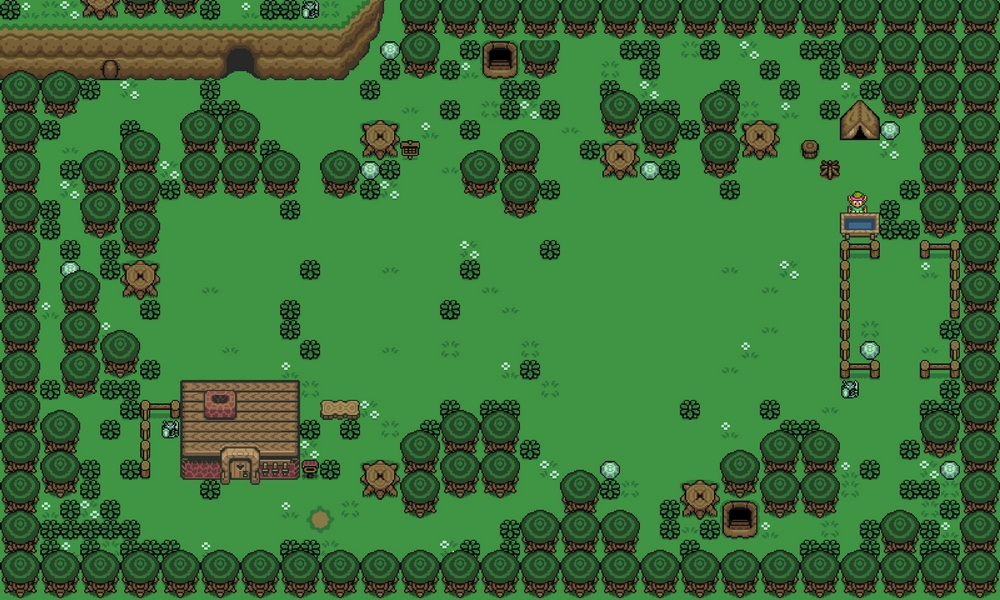
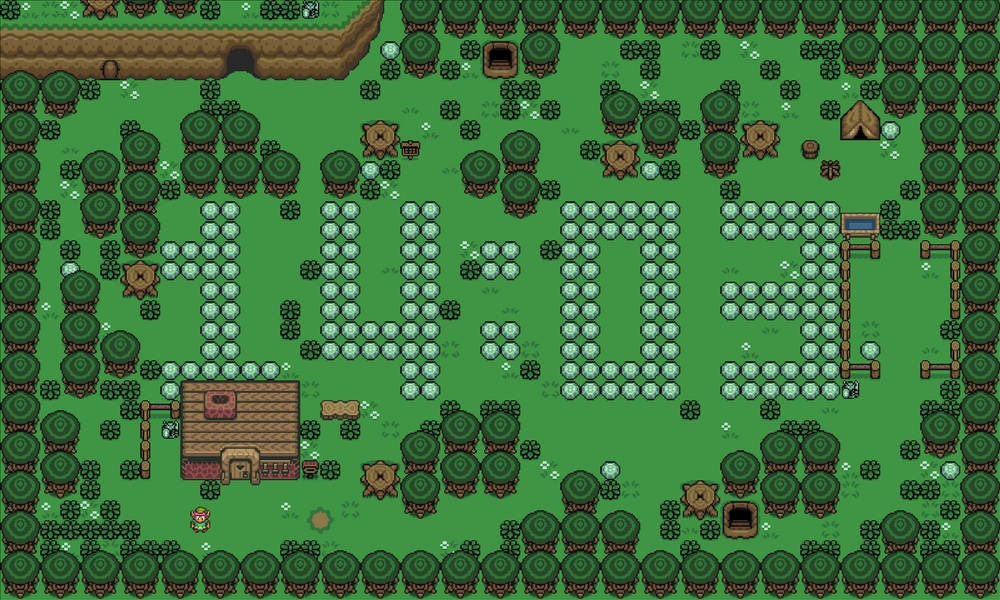
FC

diff --git a/public/js/script.js b/public/js/script.js
@@ -1,16 +1,130 @@
 const SIZE = 16;
 const NUMBERS = [
-    [
+    [ // 0
         [0,0],[1,0],[2,0],[3,0],[4,0],[5,0],
         [0,1],[1,1],[2,1],[3,1],[4,1],[5,1],
-        [0,2],[1,2],[4,2],[5,2],
-        [0,3],[1,3],[4,3],[5,3],
-        [0,4],[1,4],[4,4],[5,4],
-        [0,5],[1,5],[4,5],[5,5],
-        [0,6],[1,6],[4,6],[5,6],
-        [0,7],[1,7],[4,7],[5,7],
+        [0,2],[1,2],            [4,2],[5,2],
+        [0,3],[1,3],            [4,3],[5,3],
+        [0,4],[1,4],            [4,4],[5,4],
+        [0,5],[1,5],            [4,5],[5,5],
+        [0,6],[1,6],            [4,6],[5,6],
+        [0,7],[1,7],            [4,7],[5,7],
         [0,8],[1,8],[2,8],[3,8],[4,8],[5,8],
         [0,9],[1,9],[2,9],[3,9],[4,9],[5,9],
+    ],
+    [ // 1
+                    [2,0],[3,0],
+                    [2,1],[3,1],
+        [0,2],[1,2],[2,2],[3,2],
+        [0,3],[1,3],[2,3],[3,3],
+                    [2,4],[3,4],
+                    [2,5],[3,5],
+                    [2,6],[3,6],
+                    [2,7],[3,7],
+        [0,8],[1,8],[2,8],[3,8],[4,8],[5,8],
+        [0,9],[1,9],[2,9],[3,9],[4,9],[5,9],
+    ],
+    [ // 2
+        [0,0],[1,0],[2,0],[3,0],[4,0],[5,0],
+        [0,1],[1,1],[2,1],[3,1],[4,1],[5,1],
+                                [4,2],[5,2],
+                                [4,3],[5,3],
+        [0,4],[1,4],[2,4],[3,4],[4,4],[5,4],
+        [0,5],[1,5],[2,5],[3,5],[4,5],[5,5],
+        [0,6],[1,6],
+        [0,7],[1,7],
+        [0,8],[1,8],[2,8],[3,8],[4,8],[5,8],
+        [0,9],[1,9],[2,9],[3,9],[4,9],[5,9],
+    ],
+    [ // 3
+        [0,0],[1,0],[2,0],[3,0],[4,0],[5,0],
+        [0,1],[1,1],[2,1],[3,1],[4,1],[5,1],
+                                [4,2],[5,2],
+                                [4,3],[5,3],
+        [0,4],[1,4],[2,4],[3,4],[4,4],[5,4],
+        [0,5],[1,5],[2,5],[3,5],[4,5],[5,5],
+                                [4,6],[5,6],
+                                [4,7],[5,7],
+        [0,8],[1,8],[2,8],[3,8],[4,8],[5,8],
+        [0,9],[1,9],[2,9],[3,9],[4,9],[5,9],
+    ],
+    [ // 4
+        [0,0],[1,0],            [4,0],[5,0],
+        [0,1],[1,1],            [4,1],[5,1],
+        [0,2],[1,2],            [4,2],[5,2],
+        [0,3],[1,3],            [4,3],[5,3],
+        [0,4],[1,4],            [4,4],[5,4],
+        [0,5],[1,5],            [4,5],[5,5],
+        [0,6],[1,6],[2,6],[3,6],[4,6],[5,6],
+        [0,7],[1,7],[2,7],[3,7],[4,7],[5,7],
+                                [4,8],[5,8],
+                                [4,9],[5,9],
+    ],
+    [ // 5
+        [0,0],[1,0],[2,0],[3,0],[4,0],[5,0],
+        [0,1],[1,1],[2,1],[3,1],[4,1],[5,1],
+        [0,2],[1,2],
+        [0,3],[1,3],
+        [0,4],[1,4],[2,4],[3,4],[4,4],[5,4],
+        [0,5],[1,5],[2,5],[3,5],[4,5],[5,5],
+                                [4,6],[5,6],
+                                [4,7],[5,7],
+        [0,8],[1,8],[2,8],[3,8],[4,8],[5,8],
+        [0,9],[1,9],[2,9],[3,9],[4,9],[5,9],
+    ],
+    [ // 6
+        [0,0],[1,0],[2,0],[3,0],[4,0],[5,0],
+        [0,1],[1,1],[2,1],[3,1],[4,1],[5,1],
+        [0,2],[1,2],
+        [0,3],[1,3],
+        [0,4],[1,4],[2,4],[3,4],[4,4],[5,4],
+        [0,5],[1,5],[2,5],[3,5],[4,5],[5,5],
+        [0,6],[1,6],            [4,6],[5,6],
+        [0,7],[1,7],            [4,7],[5,7],
+        [0,8],[1,8],[2,8],[3,8],[4,8],[5,8],
+        [0,9],[1,9],[2,9],[3,9],[4,9],[5,9],
+    ],
+    [ // 7
+        [0,0],[1,0],[2,0],[3,0],[4,0],[5,0],
+        [0,1],[1,1],[2,1],[3,1],[4,1],[5,1],
+                                [4,2],[5,2],
+                                [4,3],[5,3],
+                                [4,4],[5,4],
+                                [4,5],[5,5],
+                                [4,6],[5,6],
+                                [4,7],[5,7],
+                                [4,8],[5,8],
+                                [4,9],[5,9],
+    ],
+    [ // 8
+        [0,0],[1,0],[2,0],[3,0],[4,0],[5,0],
+        [0,1],[1,1],[2,1],[3,1],[4,1],[5,1],
+        [0,2],[1,2],            [4,2],[5,2],
+        [0,3],[1,3],            [4,3],[5,3],
+        [0,4],[1,4],[2,4],[3,4],[4,4],[5,4],
+        [0,5],[1,5],[2,5],[3,5],[4,5],[5,5],
+        [0,6],[1,6],            [4,6],[5,6],
+        [0,7],[1,7],            [4,7],[5,7],
+        [0,8],[1,8],[2,8],[3,8],[4,8],[5,8],
+        [0,9],[1,9],[2,9],[3,9],[4,9],[5,9],
+    ],
+    [ // 9
+        [0,0],[1,0],[2,0],[3,0],[4,0],[5,0],
+        [0,1],[1,1],[2,1],[3,1],[4,1],[5,1],
+        [0,2],[1,2],            [4,2],[5,2],
+        [0,3],[1,3],            [4,3],[5,3],
+        [0,4],[1,4],[2,4],[3,4],[4,4],[5,4],
+        [0,5],[1,5],[2,5],[3,5],[4,5],[5,5],
+                                [4,6],[5,6],
+                                [4,7],[5,7],
+                                [4,8],[5,8],
+                                [4,9],[5,9],
+    ],
+    [ // :
+        [2,2],[3,2],
+        [2,3],[3,3],
+        [2,6],[3,6],
+        [2,7],[3,7],
     ]
 ];
 
@@ -38,8 +152,8 @@ class Example extends Phaser.Scene
     {
         const MAP = this.make.tilemap({ key: 'tilemap' });
         const tileset = MAP.addTilesetImage('assets', 'assets');
-        MAP.createLayer('level_1', tileset);
-        MAP.createLayer('level_2', tileset);
+        MAP.createLayer('level_1', tileset).setDepth(1);
+        MAP.createLayer('level_2', tileset).setDepth(2);
 
         const COLLISION = MAP.createLayer('collision', tileset);
         COLLISION.visible = false;
@@ -47,11 +161,13 @@ class Example extends Phaser.Scene
 
         this.platforms = this.physics.add.staticGroup();
 
+        const GROUP = this.physics.add.group();
+
         // The player and its settings
         this.player = this.physics.add.sprite(SIZE * 10, SIZE * 26, 'dude');
+        this.player.setDepth(4);
         this.player.body.setSize(SIZE, SIZE);
         this.player.body.offset.y = 8;
-        document.okok = this.player;
 
         //  Our player animations
         this.anims.create({
@@ -88,12 +204,15 @@ class Example extends Phaser.Scene
         this.cursors = this.input.keyboard.createCursorKeys();
 
         this.physics.add.collider(this.player, COLLISION);
+        this.physics.add.collider(this.player, GROUP, (player, gem) => {
+            gem.destroy(true);
+          }, null, this);
 
-        const GROUP = this.physics.add.group();
 
-        this.showNumber(9, 11, 0, GROUP);
+        MAP.createLayer('level_3', tileset).setDepth(5);
 
-        MAP.createLayer('level_3', tileset);
+
+        this.setTime(GROUP);
     }
 
     update ()
@@ -138,14 +257,49 @@ class Example extends Phaser.Scene
         this.player.y = Math.round(this.player.y);
     }
 
+    setTime(group){
+        while(group.children.entries.length){
+            group.children.entries[0].destroy(true);
+        }
+
+        const NOW = new Date();
+        const HOURS = this.twoDigits(NOW.getHours());
+        const MINUTES = this.twoDigits(NOW.getMinutes());
+        
+        this.showNumber(9, 11, parseInt(HOURS[0]), group);
+        this.showNumber(17, 11, parseInt(HOURS[1]), group);
+        
+        this.showNumber(23, 11, 10, group);
+
+        this.showNumber(29, 11, parseInt(MINUTES[0]), group);
+        this.showNumber(37, 11, parseInt(MINUTES[1]), group);
+
+        setTimeout(() => {
+            this.setTime(group);
+        }, 60 * 1000 - new Date().getSeconds() * 1000 - new Date().getMilliseconds());
+    }
+
+    twoDigits(input){
+        if(input < 10)
+            return "0" + input;
+        return input.toString();
+    }
+
     showNumber(x, y, number, group){
+        if(isNaN(number))
+            return;
         NUMBERS[number].forEach(element => {
-            group.add(this.addGem(x + element[0], y + element[1]));
+            const GEM = this.addGem(x + element[0], y + element[1]);
+            group.add(GEM);
         });
     }
 
     addGem(x, y){
-        return this.physics.add.image(SIZE * x - SIZE / 2, SIZE * y - SIZE / 2, 'gem');
+        const X = SIZE * x - SIZE / 2;
+        const Y = SIZE * y - SIZE / 2;
+        const GEM = this.physics.add.image(X, Y, 'gem');
+        GEM.setDepth(3);
+        return GEM;
     }
 }
 
